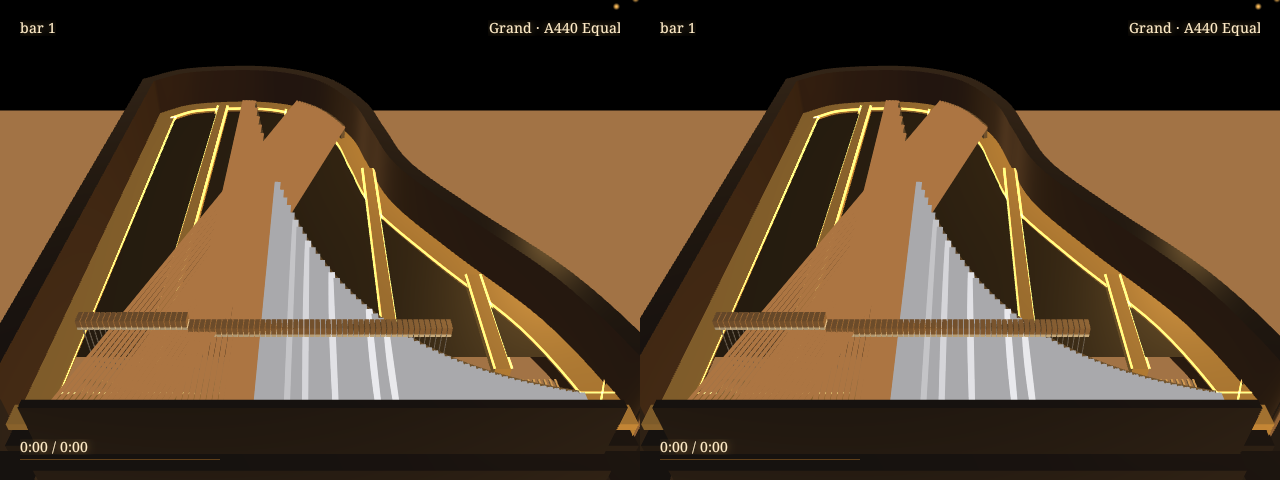
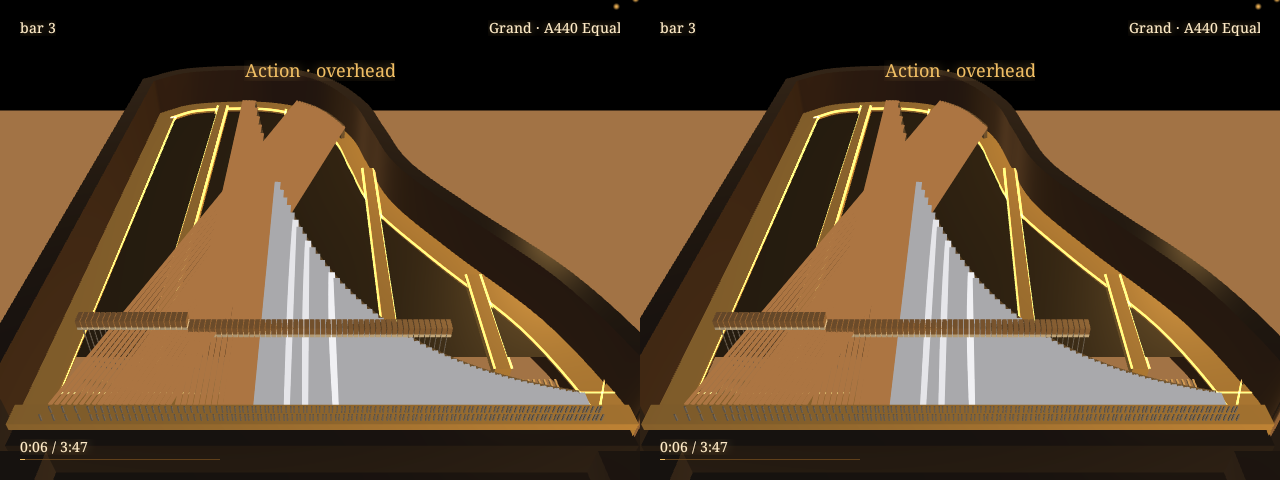
M4 rework: section caps drawn at the cut plane; fallboard and music desk off in the Action framings; overlay duration/bar from the Performance with a 1 s refresh; damper audit, title-card log, pad-to-fade timing; smoke M4 shoots views inside the toast; gate re-run (T-SYNC absolute still open)

diff --git a/app/src/main/java/com/tropicalstream/hammerklavier/render/StereoRenderer.kt b/app/src/main/java/com/tropicalstream/hammerklavier/render/StereoRenderer.kt
@@ -76,6 +76,7 @@ class StereoRenderer(private val loader: ExecutorService?,
         @Volatile var framing = 0
         @Volatile var viewSerial = 0L
         @Volatile var viewNanos = 0L
+        @Volatile var inputNanos = 0L       // the pad event behind this view change (0 = CONTROL)
         @Volatile var quality: QualityProfile = QualityLadder.of(0, 96)
         @Volatile var settings: RenderSettings? = null
         @Volatile var stereo = true
@@ -301,14 +302,15 @@ class StereoRenderer(private val loader: ExecutorService?,
         val dy = gaze.yaw - lastGazeYaw; lastGazeYaw = gaze.yaw
         val dp = gaze.pitch - lastGazePitch; lastGazePitch = gaze.pitch
         headStill = dy < HEAD_STILL_RAD && dy > -HEAD_STILL_RAD && dp < HEAD_STILL_RAD && dp > -HEAD_STILL_RAD
-        if (d.viewSerial != seenViewSerial) { seenViewSerial = d.viewSerial; director.request(d.view, d.framing); fadeReqNanos = d.viewNanos }
+        if (d.viewSerial != seenViewSerial) { seenViewSerial = d.viewSerial; director.request(d.view, d.framing); fadeReqNanos = d.viewNanos; fadeInputNanos = d.inputNanos }
         val ov = d.overrides
         director.setOverrides(ov.ipdScale ?: Float.NaN, ov.vFovDeg ?: lifeSizeFov(settings))
         director.update(dt, pose, gaze, cam)
         if (director.cutThisFrame) onCut()
         dipping = director.dipping
         if (fadeReqNanos != 0L && dipping) {
-            Log.i(HK.TAG_RENDER, "swipe to first fade ms=" + "%.1f".format((t0 - fadeReqNanos) / 1e6) + " view=" + d.view + "/" + d.framing)
+            val pad = if (fadeInputNanos in 1..fadeReqNanos) " fromPad ms=" + "%.1f".format((t0 - fadeInputNanos) / 1e6) else ""
+            Log.i(HK.TAG_RENDER, "swipe to first fade ms=" + "%.1f".format((t0 - fadeReqNanos) / 1e6) + " view=" + d.view + "/" + d.framing + pad)
             fadeReqNanos = 0L
         }
         val stereo = d.stereo
@@ -515,6 +517,8 @@ class StereoRenderer(private val loader: ExecutorService?,
     // ── M4 strike audit: every contact in a frame's exposure window is drawn exactly once (pose.flash) ──
     private var boundPerf: Performance? = null
     private var fadeReqNanos = 0L
+    private val DAMPER_STOP_MS = 1500f
+    private var fadeInputNanos = 0L
     private var auditGen = Int.MIN_VALUE
     private var auditNext = 0
     private var auditExpected = 0
@@ -528,6 +532,8 @@ class StereoRenderer(private val loader: ExecutorService?,
         if (p.generation != auditGen || vis.reseed) {
             if (!auditLogged && auditExpected > 0) logAudit("reset")
             auditGen = p.generation; auditExpected = 0; auditDrawn = 0; auditSameKey = 0; auditLogged = false
+            damperLands = 0; damperStopped = 0; damperMaxMs = 0f; damperLate = 0
+            java.util.Arrays.fill(damperLandUs, -1L); java.util.Arrays.fill(prevDamper, 0f)
             var lo = 0; var hi = p.onUs.size
             while (lo < hi) { val m = (lo + hi) ushr 1; if (p.onUs[m] <= vis.exposeToUs) lo = m + 1 else hi = m }
             auditNext = lo
@@ -542,11 +548,37 @@ class StereoRenderer(private val loader: ExecutorService?,
             auditNext++
         }
         for (k in 0 until 128) if (pose.flash[k]) auditDrawn++
+        auditDampers()
         if (!auditLogged && auditNext >= p.onUs.size && vis.tUs > p.onUs[p.onUs.size - 1] + 300_000L) logAudit("end")
+    }
+
+    // Dampers stop strings: a damper that lands (lift > 0.05 → 0) on a ringing string (amp > 0.2) with the
+    // sustain pedal up must bring the drawn amplitude under 0.1 within DAMPER_STOP_MS.
+    private val damperLandUs = LongArray(128) { -1L }
+    private val prevDamper = FloatArray(128)
+    private var damperLands = 0; private var damperStopped = 0; private var damperLate = 0; private var damperMaxMs = 0f
+
+    private fun auditDampers() {
+        val t = vis.tUs
+        for (k in 0 until 128) {
+            val dmp = pose.damper[k]; val amp = pose.stringAmp[k]
+            if (pose.flash[k]) damperLandUs[k] = -1L
+            if (prevDamper[k] > 0.05f && dmp <= 0.001f && pose.sustain < 0.1f && amp > 0.2f) { damperLandUs[k] = t; damperLands++ }
+            prevDamper[k] = dmp
+            val l = damperLandUs[k]
+            if (l >= 0L) {
+                val ms = (t - l) / 1000f
+                if (dmp > 0.05f) damperLandUs[k] = -1L                                   // lifted again before it settled
+                else if (amp < 0.1f) { damperStopped++; if (ms > damperMaxMs) damperMaxMs = ms; damperLandUs[k] = -1L }
+                else if (ms > DAMPER_STOP_MS) { damperLate++; damperLandUs[k] = -1L }
+            }
+        }
     }
 
     private fun logAudit(why: String) {
         auditLogged = true
+        Log.i(HK.TAG_RENDER, "damper audit " + why + " id=" + boundPerf?.id + " landed=" + damperLands + " stopped=" + damperStopped +
+            " late=" + damperLate + " maxStopMs=" + "%.0f".format(damperMaxMs) + " limitMs=" + DAMPER_STOP_MS.toInt())
         Log.i(HK.TAG_RENDER, "strike audit " + why + " id=" + boundPerf?.id + " gen=" + auditGen + " notes=" + (boundPerf?.noteCount ?: 0) +
             " expected=" + auditExpected + " drawn=" + auditDrawn + " sameKeySameFrame=" + auditSameKey + " fps=" + "%.1f".format(fps))
     }

diff --git a/app/src/main/java/com/tropicalstream/hammerklavier/AppController.kt b/app/src/main/java/com/tropicalstream/hammerklavier/AppController.kt
@@ -93,8 +93,10 @@ class AppController(private val ctx: Context, private val w: Wiring) {
     private var shownPlaying = false
     private val playWatch = object : Runnable { override fun run() {
         if (overlay == null) return
-        if (isPlaying() != shownPlaying) refreshOverlay()
+        // also once a second: the time line and bar advance, and view toasts expire (§1.8)
+        if (isPlaying() != shownPlaying || ++watchTicks % 4 == 0) refreshOverlay()
         w.main.postDelayed(this, 250) } }
+    private var watchTicks = 0
 
     fun startEngine() {
         if (engineRunning) return
@@ -187,8 +189,13 @@ class AppController(private val ctx: Context, private val w: Wiring) {
         if (finishing) stopEngine()
     }
 
-    fun onGesture(g: Gesture, source: String = "pad") {
-        Log.i(HK.TAG_INPUT, "${g.name.lowercase()} gesture=${g.name} src=$source")
+    fun onGesture(g: Gesture, source: String = "pad", downUptimeMs: Long = 0L, eventUptimeMs: Long = 0L) {
+        if (eventUptimeMs != 0L) {
+            val now = SystemClock.uptimeMillis()
+            Log.i(HK.TAG_INPUT, "${g.name.lowercase()} gesture=${g.name} src=$source fingerMs=${eventUptimeMs - downUptimeMs} recogMs=${now - eventUptimeMs}")
+            // uptimeMillis and System.nanoTime are both CLOCK_MONOTONIC on Android
+            (gl as? com.tropicalstream.hammerklavier.render.HkGlView)?.pendingInputNanos = eventUptimeMs * 1_000_000L
+        } else Log.i(HK.TAG_INPUT, "${g.name.lowercase()} gesture=${g.name} src=$source")
         applyAll(w.ui.onGesture(g, facts(), SystemClock.uptimeMillis()))
     }
 
@@ -323,15 +330,22 @@ class AppController(private val ctx: Context, private val w: Wiring) {
     private fun refreshOverlay() {
         val o = overlay ?: return
         val f = facts(); shownPlaying = f.playing
-        o.show(w.ui.render(f, SystemClock.uptimeMillis()))
+        val st = w.ui.render(f, SystemClock.uptimeMillis())
+        (st as? com.tropicalstream.hammerklavier.ui.model.UiOverlayState)?.let { u ->
+            val sig = "${u.context}/${u.title != null}"
+            if (sig != lastOverlaySig) { lastOverlaySig = sig; Log.i(HK.TAG_UI, "overlay context=${u.context} titleCard=${u.title != null}") }
+        }
+        o.show(st)
     }
+    private var lastOverlaySig = ""
 
     /** Minimal facts for the stub UI; WP12's FactsAssembler replaces this. */
     private fun facts(): UiFacts {
         w.audio.clock.sample(System.nanoTime(), clockSample)
         w.audio.stats(audioStats)
-        return UiFacts(playing = clockSample.playing, positionUs = clockSample.songUs, durationUs = 0L, movementId = null, bar = 1,
-            instrument = InstrumentId.GRAND, view = view, framing = framing, kitStates = mapOf(InstrumentId.GRAND to w.kits.state(InstrumentId.GRAND)), library = null,
+        return UiFacts(playing = clockSample.playing, positionUs = clockSample.songUs, durationUs = lastPerf?.durationUs ?: 0L, movementId = null,
+            bar = lastPerf?.barAt(clockSample.songUs) ?: 1,
+            instrument = lastPerf?.instrument ?: InstrumentId.GRAND, view = view, framing = framing, kitStates = mapOf(InstrumentId.GRAND to w.kits.state(InstrumentId.GRAND)), library = null,
             settings = DEFAULT_SETTINGS, nextTitle = null, quality = quality.level, companionUrl = null, companionToken = "",
             route = w.audio.route, status = emptyList(), perfInfo = null, firstRun = false, sessions = 0, resumeTitle = null,
             recent = emptyList(), shelfId = null, version = "${BuildConfig.VERSION_NAME} ${BuildConfig.GIT_COMMIT}",

diff --git a/core/src/main/java/com/tropicalstream/hammerklavier/instrument/GrandCase.kt b/core/src/main/java/com/tropicalstream/hammerklavier/instrument/GrandCase.kt
@@ -100,14 +100,21 @@ object GrandCase {
         c.box(kw, 0.62f, zRimFront, -g.X0, 0.78f, g.FRONT_Z)                     // treble cheek
         c.box(-kw, 0.62f, zRimFront, kw, 0.66f, g.FRONT_Z)                       // key bed
         c.box(-kw, 0.66f, zRimFront, kw, 0.695f, -0.17f)                         // key frame under the fallboard
-        c.box(-kw, g.KEY_TOP, -0.19f, kw, 0.80f, -0.15f)                         // fallboard
-        c.box(-kw, 0.80f, -0.21f, kw, g.RIM_TOP, -0.19f)                         // key-well back (behind the fallboard)
         for (leg in LEGS) {
             c.lathe(floatArrayOf(0.030f, 0.06f, 0.036f, 0.30f, 0.045f, 0.52f, 0.062f, 0.60f, 0.062f, g.RIM_BOTTOM), 14, leg[0], leg[1])
         }
         c.box(-0.09f, 0.12f, -0.42f, -0.07f, 0.62f, -0.39f); c.box(0.07f, 0.12f, -0.42f, 0.09f, 0.62f, -0.39f)   // lyre posts
         c.box(-0.16f, 0.05f, -0.44f, 0.16f, 0.12f, -0.36f)                                                       // pedal box
         out += c.build("grand.case", MaterialId.LACQUER, SkinKind.STATIC, VM.LEVELS_ALL, VM.ALL, true, ProgramId.LACQUER, 7)
+
+        // Fallboard, key-well back and music desk: off in the Action framings, where they stand between
+        // the camera and the action (the cutaway removes them as a drawing would; Overhead has the lid off).
+        val fb = MeshBuilder(VertexLayout.STATIC, 64)
+        fb.color(lac)
+        fb.box(-kw, g.KEY_TOP, -0.19f, kw, 0.80f, -0.15f)                        // fallboard
+        fb.box(-kw, 0.80f, -0.21f, kw, g.RIM_TOP, -0.19f)                        // key-well back (behind the fallboard)
+        fb.box(-0.40f, g.RIM_TOP, -0.30f, 0.40f, 1.26f, -0.27f)                  // music desk
+        out += fb.build("grand.fallboard", MaterialId.LACQUER, SkinKind.STATIC, VM.LEVELS_ALL, VM.PLAYER_HALL, true, ProgramId.LACQUER, 7)
 
         val casters = MeshBuilder(VertexLayout.STATIC, 512)
         casters.color(Pal.BRASS_MID)
@@ -117,7 +124,7 @@ object GrandCase {
         val decal = MeshBuilder(VertexLayout.STATIC, 8)
         decal.color(intArrayOf(255, 255, 255))
         Geo.quadZ(decal, -0.13f, 0.745f, 0.13f, 0.775f, -0.1495f)
-        out += decal.build("grand.fallboard.lettering", MaterialId.GILT_EMISSIVE, SkinKind.STATIC, VM.LEVELS_ALL, VM.ALL, true,
+        out += decal.build("grand.fallboard.lettering", MaterialId.GILT_EMISSIVE, SkinKind.STATIC, VM.LEVELS_ALL, VM.PLAYER_HALL, true,
             ProgramId.DECAL, 7, texture = InstrumentTextures.FALLBOARD)
 
         // ── Lid (slot 8, own transform, not in Overhead) and its stick ──
@@ -128,7 +135,6 @@ object GrandCase {
         val stick = MeshBuilder(VertexLayout.STATIC, 32)
         stick.color(lac)
         stick.box(0.27f, g.RIM_TOP, -1.015f, 0.295f, 1.78f, -0.99f)
-        stick.box(-0.40f, g.RIM_TOP, -0.30f, 0.40f, 1.26f, -0.27f)                 // music desk (off in Overhead with the lid)
         out += stick.build("grand.lidstick", MaterialId.LACQUER, SkinKind.STATIC, VM.LEVELS_ALL, VM.NO_OVER, true, ProgramId.LACQUER, 8)
 
         // ── Plate, pins (slot 9) ──

diff --git a/app/src/main/java/com/tropicalstream/hammerklavier/platform/TrackpadGestureEngine.kt b/app/src/main/java/com/tropicalstream/hammerklavier/platform/TrackpadGestureEngine.kt
@@ -69,6 +69,8 @@ class TrackpadGestureEngine {
     var onSwipeHorizontal: ((direction: Int) -> Unit)? = null
     /** Every recognised gesture as the contract enum, with its source ("touch", "key", "scroll"). */
     var onGesture: ((Gesture, String) -> Unit)? = null
+    /** Uptime ms of the finger's ACTION_DOWN and of the input event that completed the last touch swipe (0 = none). */
+    @Volatile var lastSwipeDownMs = 0L; @Volatile var lastSwipeEventMs = 0L
     /** Raw input trace for on-device diagnosis (shown on title/debug HUD). */
     var debugSink: ((String) -> Unit)? = null
 
@@ -192,7 +194,7 @@ class TrackpadGestureEngine {
                         touchMovedTooFar = true
                         handler.removeCallbacks(touchLongCheck)
                     }
-                    maybeFireSwipe()
+                    maybeFireSwipe(event)
                 }
             }
             MotionEvent.ACTION_UP, MotionEvent.ACTION_CANCEL -> {
@@ -210,8 +212,9 @@ class TrackpadGestureEngine {
         return true
     }
 
-    private fun maybeFireSwipe() {
+    private fun maybeFireSwipe(event: MotionEvent) {
         if (swipeFiredForGesture) return
+        lastSwipeDownMs = event.downTime; lastSwipeEventMs = event.eventTime
         // Raw pad coords are not always screen-normalized; use generous
         // absolute thresholds scaled against whatever metrics we were fed.
         val minSwipe = max(SWIPE_MIN_PX, 0.06f * minOf(screenW, screenH))

diff --git a/app/src/main/java/com/tropicalstream/hammerklavier/MainActivity.kt b/app/src/main/java/com/tropicalstream/hammerklavier/MainActivity.kt
@@ -58,7 +58,10 @@ class MainActivity : Activity() {
         root.addView(sbs, FrameLayout.LayoutParams(ViewGroup.LayoutParams.MATCH_PARENT, ViewGroup.LayoutParams.MATCH_PARENT))
         setContentView(root)
         applyMono(intent)
-        gestures.onGesture = { g, src -> controller.onGesture(g, src) }
+        gestures.onGesture = { g, src ->
+            if (src == "touch" && gestures.lastSwipeEventMs != 0L) controller.onGesture(g, src, gestures.lastSwipeDownMs, gestures.lastSwipeEventMs)
+            else controller.onGesture(g, src)
+        }
         root.addOnLayoutChangeListener { _, l, t, r, b, _, _, _, _ -> gestures.setScreenSize(r - l, b - t) }
         controller.onLeave = { finish() }
         controller.onBrightness = { b -> window.attributes = window.attributes.apply { screenBrightness = b } }

diff --git a/app/src/main/java/com/tropicalstream/hammerklavier/render/ItemDrawer.kt b/app/src/main/java/com/tropicalstream/hammerklavier/render/ItemDrawer.kt
@@ -171,6 +171,7 @@ class ItemDrawer(private val programs: Programs, private val packer: UniformPack
                 GLES20.glUniform1f(p.uWidthPx, f.stringWidthPx)
                 GLES20.glUniform1f(p.uSwellPx, 2.5f)
             }
+            ProgramId.SECTION_CAP -> GLES20.glUniform1f(p.uShiftX, if (f.clipX.isNaN()) 0f else f.clipX - CAP_EPS_M)
             else -> {}
         }
         blendFor(progId)
@@ -246,6 +247,8 @@ class ItemDrawer(private val programs: Programs, private val packer: UniformPack
     }
 
     companion object {
+        /** Section caps sit this far on the kept side of the cut plane so the clip never discards them. */
+        const val CAP_EPS_M = 0.0005f
         private const val PIVOT_BIT = 1 shl 31
 
         /**

diff --git a/app/src/main/java/com/tropicalstream/hammerklavier/render/HkGlView.kt b/app/src/main/java/com/tropicalstream/hammerklavier/render/HkGlView.kt
@@ -111,8 +111,12 @@ class HkGlView(ctx: Context, loader: ExecutorService?, private val msaa: Boolean
         renderer.kickBuild()
     }
 
+    /** Set by the controller just before a touch-swipe's setView: the pad event's time (System.nanoTime base). */
+    @Volatile var pendingInputNanos = 0L
+
     override fun setView(v: ViewId, framing: Int) {
         val d = renderer.desired
+        d.inputNanos = pendingInputNanos; pendingInputNanos = 0L
         d.view = v; d.framing = framing.coerceIn(0, 1); d.viewNanos = System.nanoTime(); d.viewSerial = d.viewSerial + 1
     }
 

diff --git a/app/src/main/java/com/tropicalstream/hammerklavier/render/gl/Shaders.kt b/app/src/main/java/com/tropicalstream/hammerklavier/render/gl/Shaders.kt
@@ -55,14 +55,16 @@ attribute vec2 aUv;
 attribute vec4 aCol;
 uniform mat4 uVP;
 uniform mat4 uModel;
+uniform float uShiftX;                 // SECTION_CAP only: caps are built in x = 0 and drawn at the cut plane
 varying vec3 vW;
 varying vec3 vN;
 varying vec4 vCol;
 varying vec2 vUv;
 varying float vMX;
 void main() {
-    vec4 w = uModel * vec4(aPos, 1.0);
-    vMX = aPos.x;
+    vec3 pp = aPos + vec3(uShiftX, 0.0, 0.0);
+    vec4 w = uModel * vec4(pp, 1.0);
+    vMX = pp.x;
     vW = w.xyz;
     vN = (uModel * vec4(aNrm, 0.0)).xyz;
     vCol = aCol;

diff --git a/docs/progress/INTEGRATION.md b/docs/progress/INTEGRATION.md
@@ -272,6 +272,43 @@ Honest look: the cutaway now reads as a section, but the section caps are flat b
 and the camera sits low enough that the key frame fills the lower third; the neighbouring actions recede but are small. The
 overlay reads "bar 1" and "0:10 / 0:00" (duration 0): the facts are still the M1 minimal set until WP12.
 
+### M4 rework after the independent verifier (2026-09-23)
+Fixes, each re-checked on the glasses:
+- **Section caps drawn at x = 0** (the "beige slabs" in `m4_repeat15_3`): the caps are built in the plane x = 0 and are meant
+  to be drawn at the cut plane (MeshRaster already shifted them), but GL drew them unshifted, so they floated in the middle
+  of the keyboard whenever the cut was near C4. LIT_VS gained `uShiftX` (0 for every other program); ItemDrawer sets it to
+  `clipX - 0.5 mm` for SECTION_CAP. The caps now close the clipped key frame and belly rail at the cut. No contract change.
+- **Cutaway blocked by the fallboard and music desk**: WP7 GrandCase split them (plus the key-well back) out of `grand.case`
+  into `grand.fallboard` (slot 7, `VM.PLAYER_HALL`), lettering decal too; the music desk left `grand.lidstick`. Both Action
+  framings drop them as a cutaway drawing would. Draws went down (max 18 per eye).
+- **Overlay facts**: `durationUs` and `bar` come from the bound Performance (`durationUs`, `barAt(songUs)`), instrument from
+  it too; the overlay now re-renders once a second (time line, bar, toast expiry). Shots read e.g. "bar 4", "0:11 / 3:47".
+  WP12's FactsAssembler still replaces the stub facts at M6.
+- **Overhead "no view label"**: the label is WP10's 1.5 s view toast; the old smoke shot was 11 s after the swipe. Smoke now
+  shoots every view 1 s after its gesture (toast visible) plus a `_later` shot.
+- **Smoke checks**: title card = `HKUi overlay context=TITLE titleCard=true` (logged on each overlay context change);
+  dampers = new `HKRender damper audit` (a damper landing on a ringing string, sustain up, must bring the drawn amplitude
+  under 0.1 within 1500 ms); two swipes now go through the real pad path (`input touchscreen swipe` -> TrackpadGestureEngine)
+  and the renderer logs `fromPad ms=` from the MotionEvent's time to the first fade; HKInput logs `fingerMs` / `recogMs`.
+- **APK md5**: the release APK embeds `BuildConfig.GIT_COMMIT`, so every commit changes the md5; the verifier's rebuild at
+  3f51d5a differs from the number recorded before the final commit. run.sh verifies installed == local each time.
+
+Gate re-run (main, glasses A06B4A96A733283): ci PASS; `smoke.sh M4` 13/13 PASS.
+| Check | Measured | Result |
+|---|---|---|
+| strikes drawn exactly once | repeat15 Q0 30.0 fps 90/90, Q2 20.0 fps 90/90, sameKeySameFrame 0 | pass |
+| dampers stop strings | 24 landings on ringing strings, 12 settled under 0.1 (max 333 ms), 12 re-struck first, 0 late | pass |
+| swipe-to-first-fade | 10 swipes, max 30.8 ms from setView; pad event to first fade 34.1 / 26.4 ms (recognition 16 / 8 ms) | pass |
+| draws <= 28 | max 18 per eye; hitches 0, glErrors 0, no crash | pass |
+| T-SYNC in the Action view | not measured (240 fps camera, headset, user) | open |
+
+Honest look at the new shots: cutaway shows keys, hammers, struck string and the cut section (flat beige, a cut face by
+design, §5.3 row 17); camera height is per the §5.6 table. Hall shows the piano small and low because the tabled camera aims
+at the room, which is black until WP8's venue at M5 (flag for WP6/WP7 review then). Overhead now shows its label.
+
+Still open: T-SYNC absolute (user + 240 fps camera + Bluetooth headset), so milestone-M4 stays untagged; `stageHidden` hook (M6);
+Hall framing review with the M5 venue.
+
 ### Open issues (M4)
 - T-SYNC absolute (Action view, speaker and Bluetooth) needs a 240 fps camera, a headset and the user; milestone-M4 not tagged.
 - Overlay facts (duration, bar, movement) wait for WP12 FactsAssembler; `stageHidden` hook not yet wired (Display floor card, M6).
